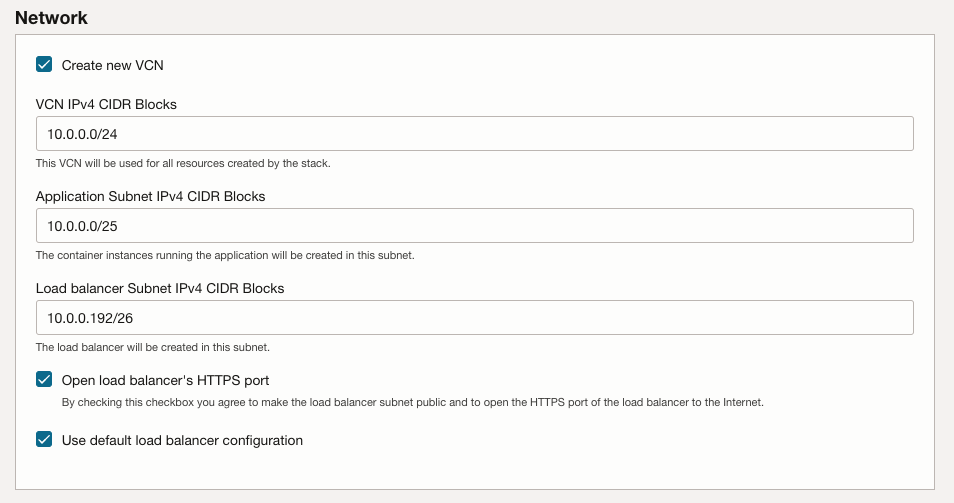
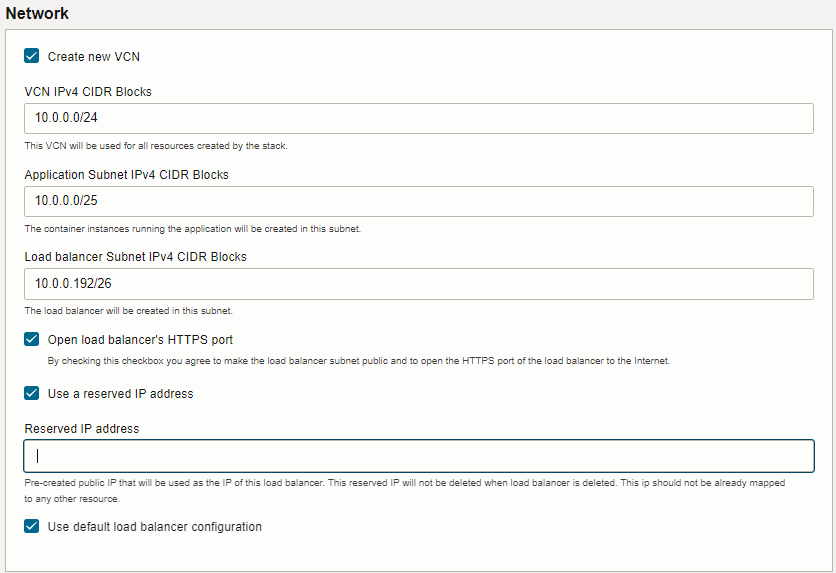
Reserved IP addresses (#19)
Added the possibility to use a Reserved IP address

Changed region(s): [[0.0, 0.0, 1.0, 1.0]]

diff --git a/usage_instructions.md b/usage_instructions.md
@@ -135,7 +135,8 @@ This is optional but if you have a DNS domain that's managed in OCI you can conf
  - **DNS and Certificate compartement:** select the compartment containing the DNS Zone and the Certificate
  - **DNS zone:** Domain name in which the hostname will be created.
  - **Hostname:** The hostname will be created on the selected Zone and will resolve to the load balancer's IP address.
- - **Certificate OCID:** certificate for the application URL
+ - **Certificate OCID:** certificate for the application URL, this certificate will be added to the load balancer
+
 
 ## Network
 
@@ -178,6 +179,8 @@ The load balancer subnet can either be a private or a public subnet. Resources i
  - Use existing load balancer subnet
    - **Select the load balancer subnet:** The Load Balancer will be created using this subnet. This list will contain both public and private subnets. Note that if a private subnet is chosen, the Load Balancer will not have a public IP address and will therefore not be directly accessible from the Internet.
  - **Open load balancer's HTTPS port:** By checking this checkbox you agree to make the load balancer subnet public and to open the HTTPS port of the load balancer to the Internet.
+   - **Use a reserved IP address:** check this checkbox to use an existing reserved public IP address.
+      - **Reserved IP address:** the reserved IP address to use 
 
 By default the load balancer is configured with a minimum and maximum bandwidth of 10Mbps, the health check URL is set to "/" and the status code 200. These values can be changed if needed.
 
